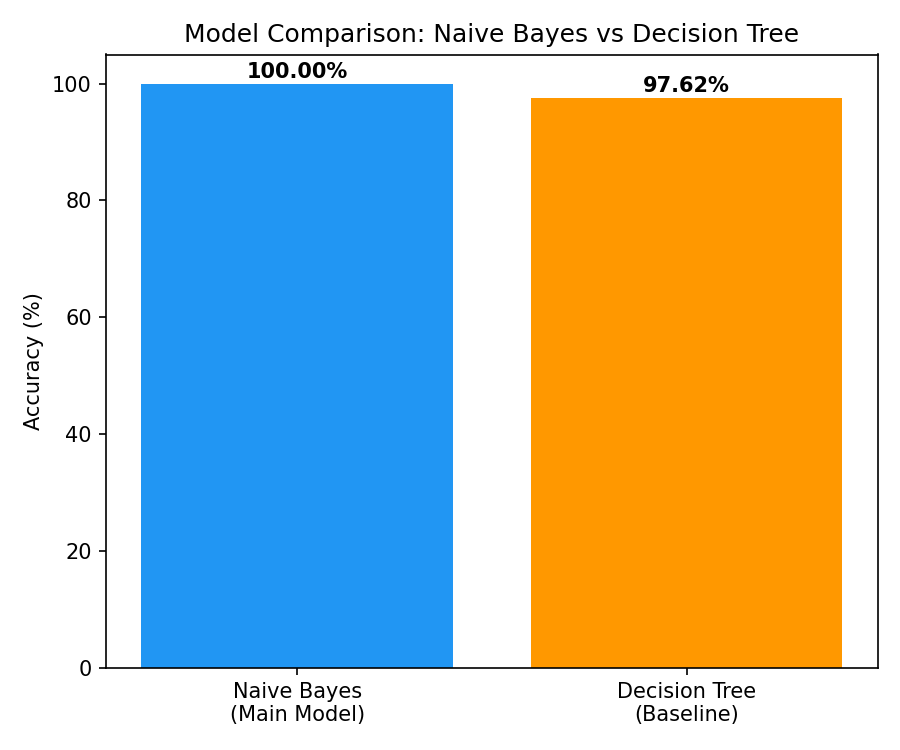
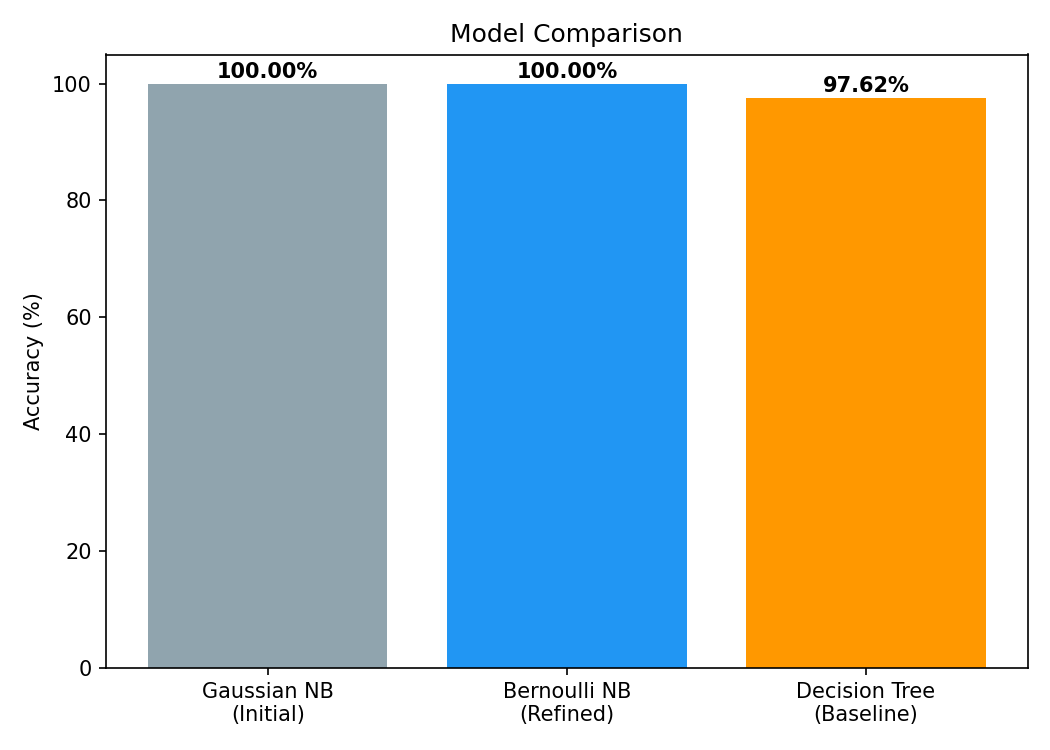
Switch to BernoulliNB for better-calibrated probability outputs on binary features

diff --git a/src/train_model.py b/src/train_model.py
@@ -1,5 +1,5 @@
 import pandas as pd
-from sklearn.naive_bayes import GaussianNB
+from sklearn.naive_bayes import GaussianNB, BernoulliNB
 from sklearn.tree import DecisionTreeClassifier
 from sklearn.metrics import accuracy_score, classification_report, confusion_matrix
 from sklearn.preprocessing import LabelEncoder
@@ -9,7 +9,6 @@ def load_data():
     train_df = pd.read_csv("data/Training.csv")
     test_df = pd.read_csv("data/Testing.csv")
 
-    # Drop the empty unnamed column if it exists
     train_df = train_df.loc[:, ~train_df.columns.str.contains("^Unnamed")]
     test_df = test_df.loc[:, ~test_df.columns.str.contains("^Unnamed")]
 
@@ -22,7 +21,6 @@ def prepare_features(train_df, test_df):
     X_test = test_df.drop("prognosis", axis=1)
     y_test = test_df["prognosis"]
 
-    # Encode disease names into numbers for the model
     le = LabelEncoder()
     y_train_encoded = le.fit_transform(y_train)
     y_test_encoded = le.transform(y_test)
@@ -31,6 +29,11 @@ def prepare_features(train_df, test_df):
 
 def train_naive_bayes(X_train, y_train):
     model = GaussianNB()
+    model.fit(X_train, y_train)
+    return model
+
+def train_bernoulli_nb(X_train, y_train):
+    model = BernoulliNB()
     model.fit(X_train, y_train)
     return model
 
@@ -54,9 +57,13 @@ if __name__ == "__main__":
     train_df, test_df = load_data()
     X_train, y_train, X_test, y_test, le = prepare_features(train_df, test_df)
 
-    print("Training Naive Bayes model...")
+    print("Training Gaussian Naive Bayes model...")
     nb_model = train_naive_bayes(X_train, y_train)
-    nb_accuracy = evaluate_model(nb_model, X_test, y_test, le, "Naive Bayes (Main Model)")
+    nb_accuracy = evaluate_model(nb_model, X_test, y_test, le, "Gaussian Naive Bayes (Initial Model)")
+
+    print("\nTraining Bernoulli Naive Bayes model (better suited for binary features)...")
+    bnb_model = train_bernoulli_nb(X_train, y_train)
+    bnb_accuracy = evaluate_model(bnb_model, X_test, y_test, le, "Bernoulli Naive Bayes (Refined Model)")
 
     print("\nTraining Decision Tree model (baseline)...")
     dt_model = train_decision_tree(X_train, y_train)
@@ -65,16 +72,17 @@ if __name__ == "__main__":
     print(f"\n{'='*50}")
     print("Summary")
     print(f"{'='*50}")
-    print(f"Naive Bayes Accuracy:   {nb_accuracy * 100:.2f}%")
-    print(f"Decision Tree Accuracy: {dt_accuracy * 100:.2f}%")
+    print(f"Gaussian Naive Bayes Accuracy:  {nb_accuracy * 100:.2f}%")
+    print(f"Bernoulli Naive Bayes Accuracy: {bnb_accuracy * 100:.2f}%")
+    print(f"Decision Tree Accuracy:         {dt_accuracy * 100:.2f}%")
 
-    nb_predictions = nb_model.predict(X_test)
+    bnb_predictions = bnb_model.predict(X_test)
 
-    # Confusion matrix (Naive Bayes)
-    cm = confusion_matrix(y_test, nb_predictions)
+    # Confusion matrix (Bernoulli Naive Bayes - final model)
+    cm = confusion_matrix(y_test, bnb_predictions)
     plt.figure(figsize=(10, 8))
     plt.imshow(cm, cmap="Blues")
-    plt.title("Confusion Matrix - Naive Bayes")
+    plt.title("Confusion Matrix - Bernoulli Naive Bayes")
     plt.xlabel("Predicted Disease (encoded)")
     plt.ylabel("Actual Disease (encoded)")
     plt.colorbar()
@@ -82,14 +90,14 @@ if __name__ == "__main__":
     plt.savefig("docs/confusion_matrix_nb.png", dpi=150)
     plt.close()
 
-    # Accuracy comparison bar chart
-    plt.figure(figsize=(6, 5))
-    models = ["Naive Bayes\n(Main Model)", "Decision Tree\n(Baseline)"]
-    accuracies = [nb_accuracy * 100, dt_accuracy * 100]
-    colors = ["#2196F3", "#FF9800"]
+    # Accuracy comparison bar chart (all three models)
+    plt.figure(figsize=(7, 5))
+    models = ["Gaussian NB\n(Initial)", "Bernoulli NB\n(Refined)", "Decision Tree\n(Baseline)"]
+    accuracies = [nb_accuracy * 100, bnb_accuracy * 100, dt_accuracy * 100]
+    colors = ["#90A4AE", "#2196F3", "#FF9800"]
     plt.bar(models, accuracies, color=colors)
     plt.ylabel("Accuracy (%)")
-    plt.title("Model Comparison: Naive Bayes vs Decision Tree")
+    plt.title("Model Comparison")
     plt.ylim(0, 105)
     for i, v in enumerate(accuracies):
         plt.text(i, v + 1, f"{v:.2f}%", ha="center", fontweight="bold")

diff --git a/src/cli.py b/src/cli.py
@@ -1,5 +1,5 @@
 import pandas as pd
-from sklearn.naive_bayes import GaussianNB
+from sklearn.naive_bayes import BernoulliNB
 from sklearn.preprocessing import LabelEncoder
 
 def load_and_train():
@@ -12,7 +12,7 @@ def load_and_train():
     le = LabelEncoder()
     y_encoded = le.fit_transform(y_train)
 
-    model = GaussianNB()
+    model = BernoulliNB()
     model.fit(X_train, y_encoded)
 
     symptom_list = X_train.columns.tolist()